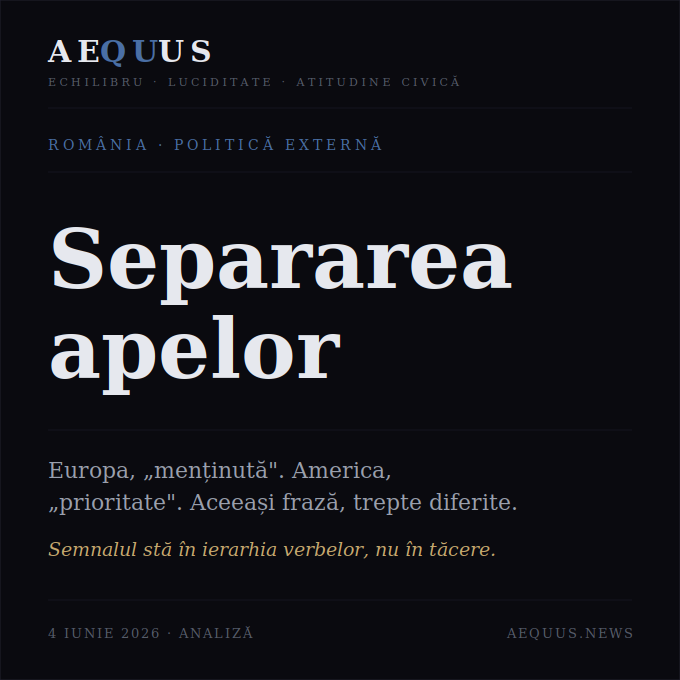
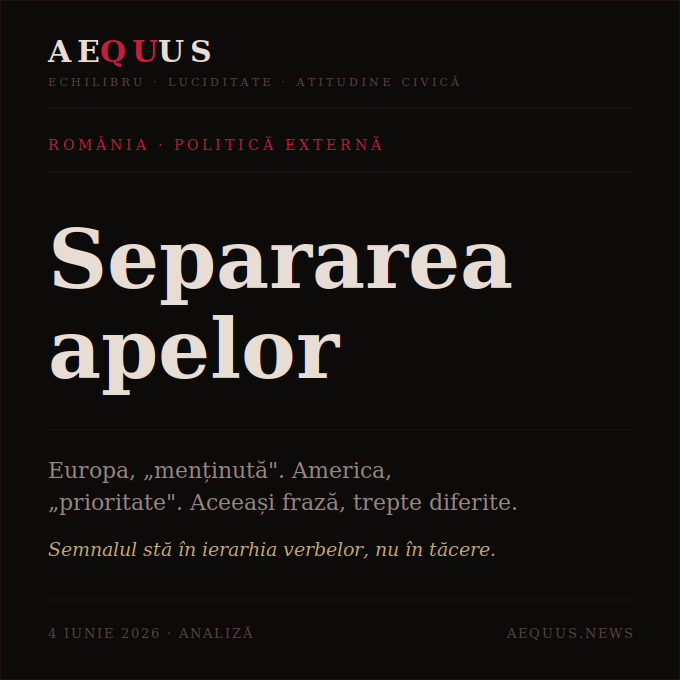
Add files via upload

diff --git a/articles/separarea-apelor.html b/articles/separarea-apelor.html
@@ -20,9 +20,9 @@
   <style>
     *, *::before, *::after { box-sizing: border-box; margin: 0; padding: 0; }
     :root {
-      --bg: #0a0a0f; --surface: #12121b; --border: #21212e;
-      --accent: #4a6fa5; --accent-dim: #2d4566;
-      --text: #e6e8ee; --text-dim: #9aa0ad; --text-muted: #565c6a; --gold: #c8a96e;
+      --bg: #0d0a0a; --surface: #160f0f; --border: #2a1a1a;
+      --accent: #c41e3a; --accent-dim: #7a1220;
+      --text: #e8ddd5; --text-dim: #9a8880; --text-muted: #5a4540; --gold: #c8a96e;
     }
     body { background: var(--bg); color: var(--text); font-family: 'Georgia', serif; line-height: 1.75; min-height: 100vh; }
     header { border-bottom: 1px solid var(--border); padding: 18px 0; }